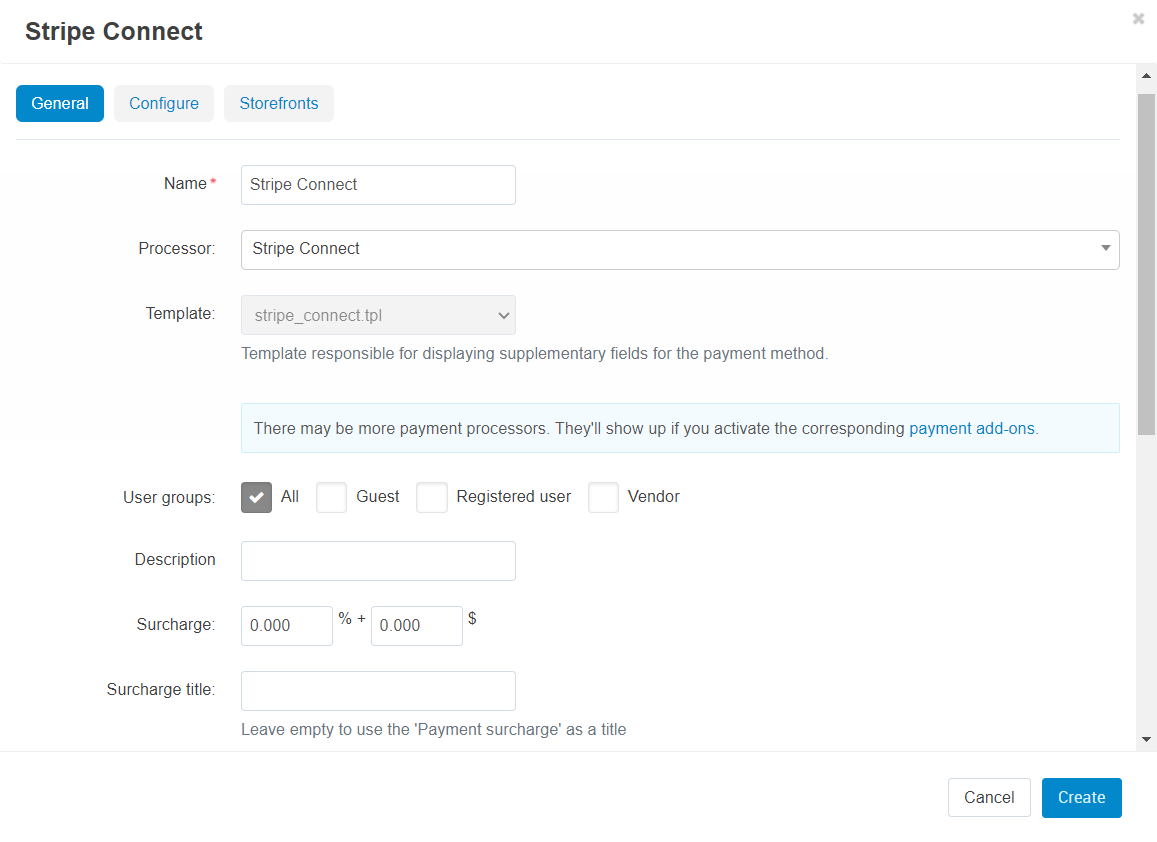
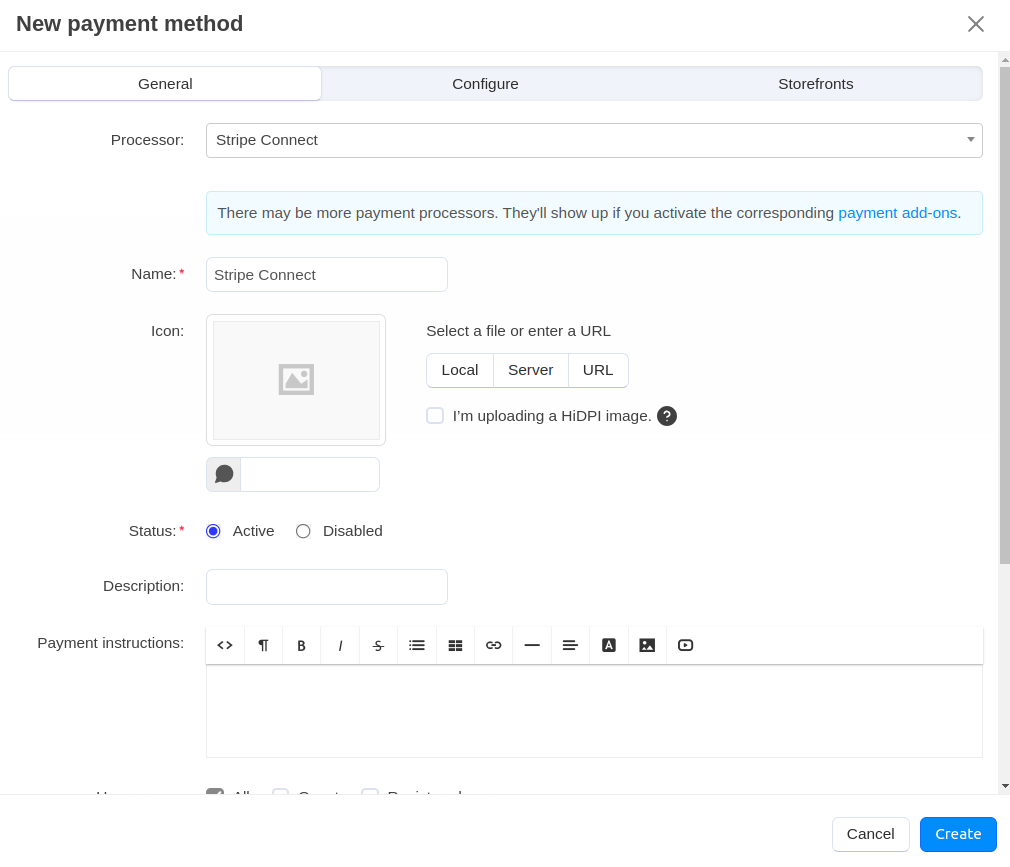
[~] Docs: How to set up CS-Cart with Stripe Connect article updated.

diff --git a/en/user_guide/payment_methods/stripe_connect.rst b/en/user_guide/payment_methods/stripe_connect.rst
@@ -14,7 +14,7 @@ Step 1. Configure the Payment Method
 
 #. :doc:`Install and configure the Stripe Connect Payments add-on. </user_guide/addons/stripe_connect/settings>`
 
-#. Go to **Administration → Payment methods** and click the **+** button in the top right corner to add a payment method.
+#. Go to **Settings → Payment methods** and click the **+ Add payment method** button in the top right corner to add a payment method.
 
 #. A new pop-up window with the payment method creation form will open. Fill in the fields on the **General** tab:
 
